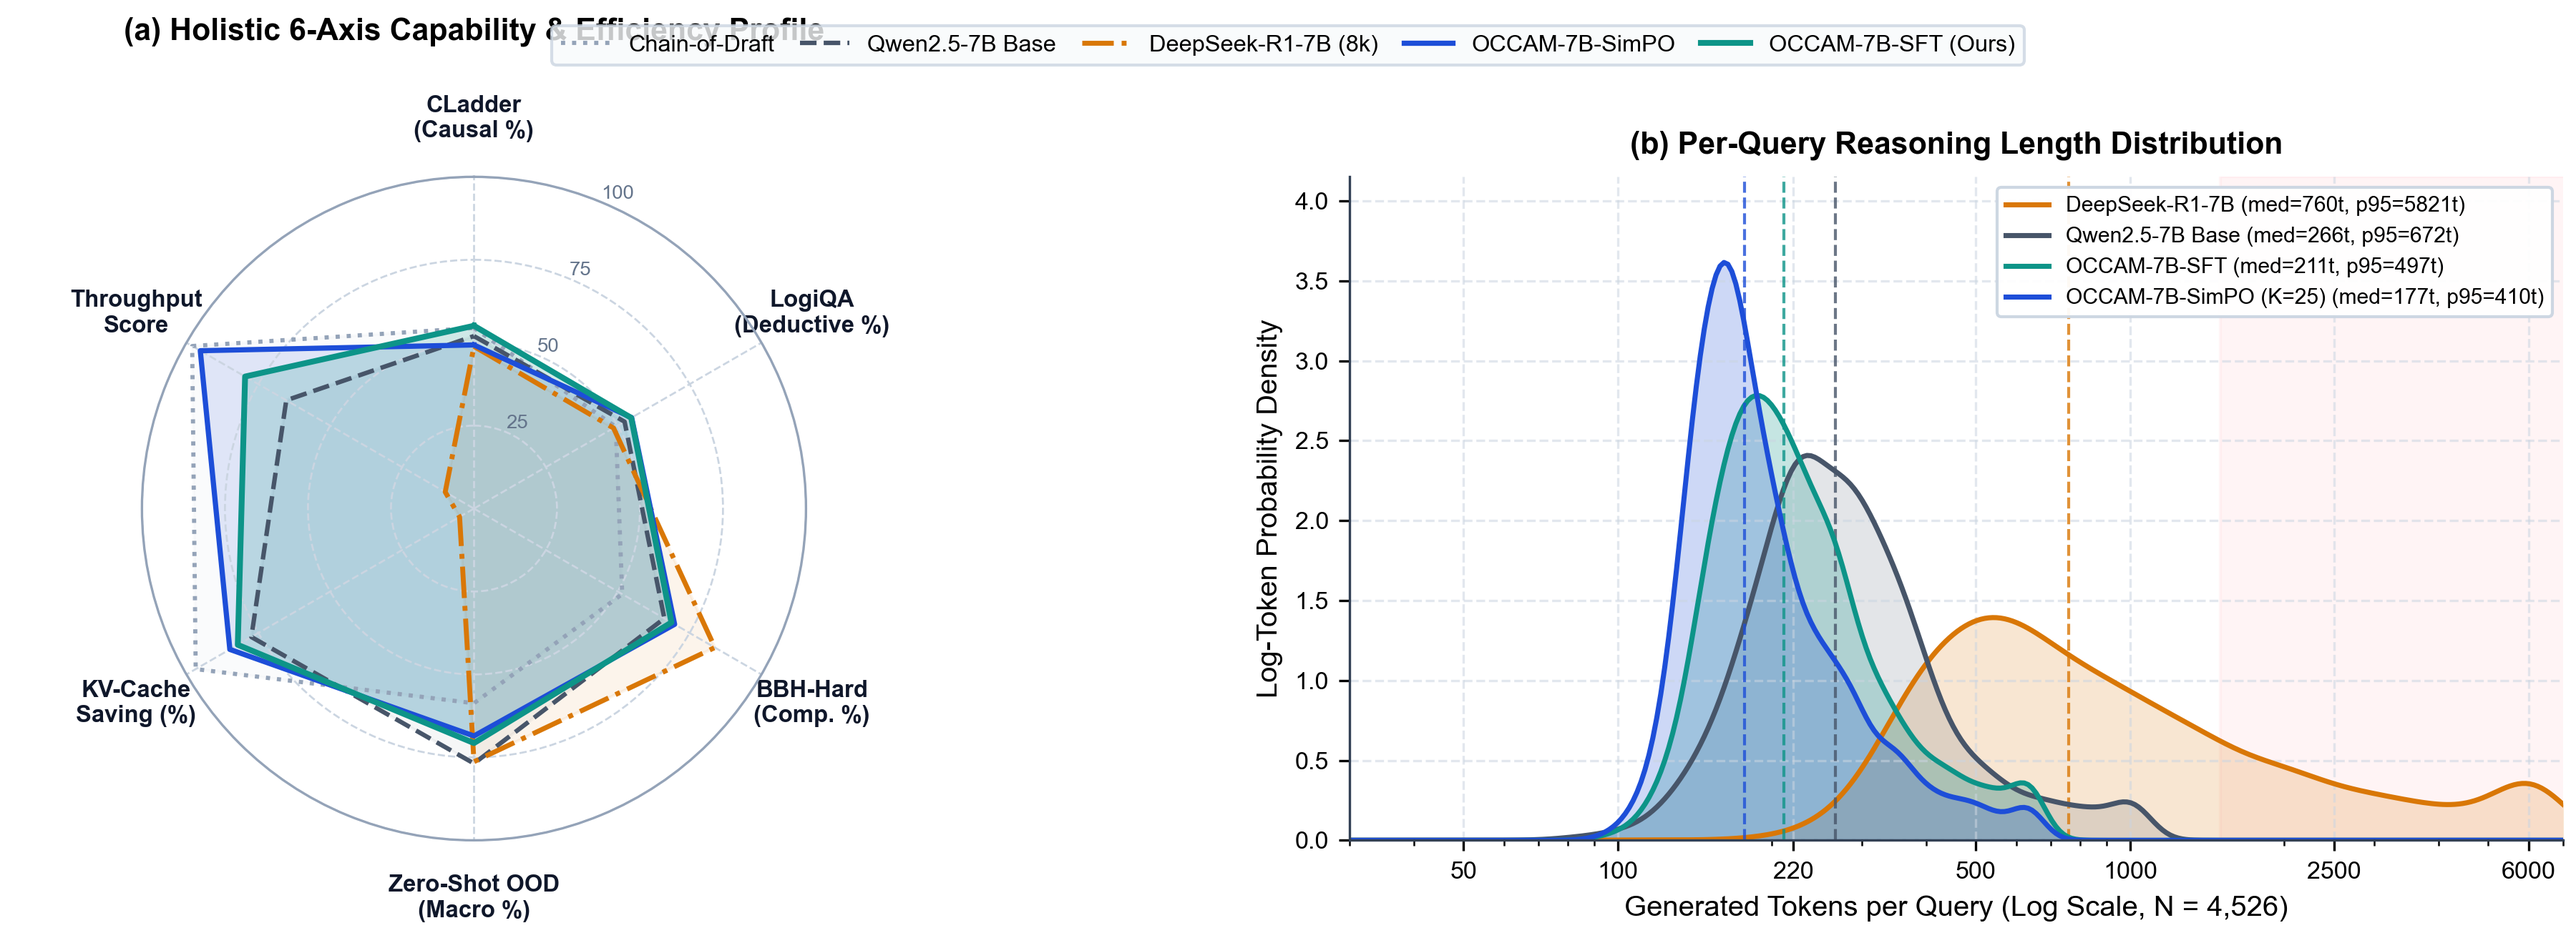
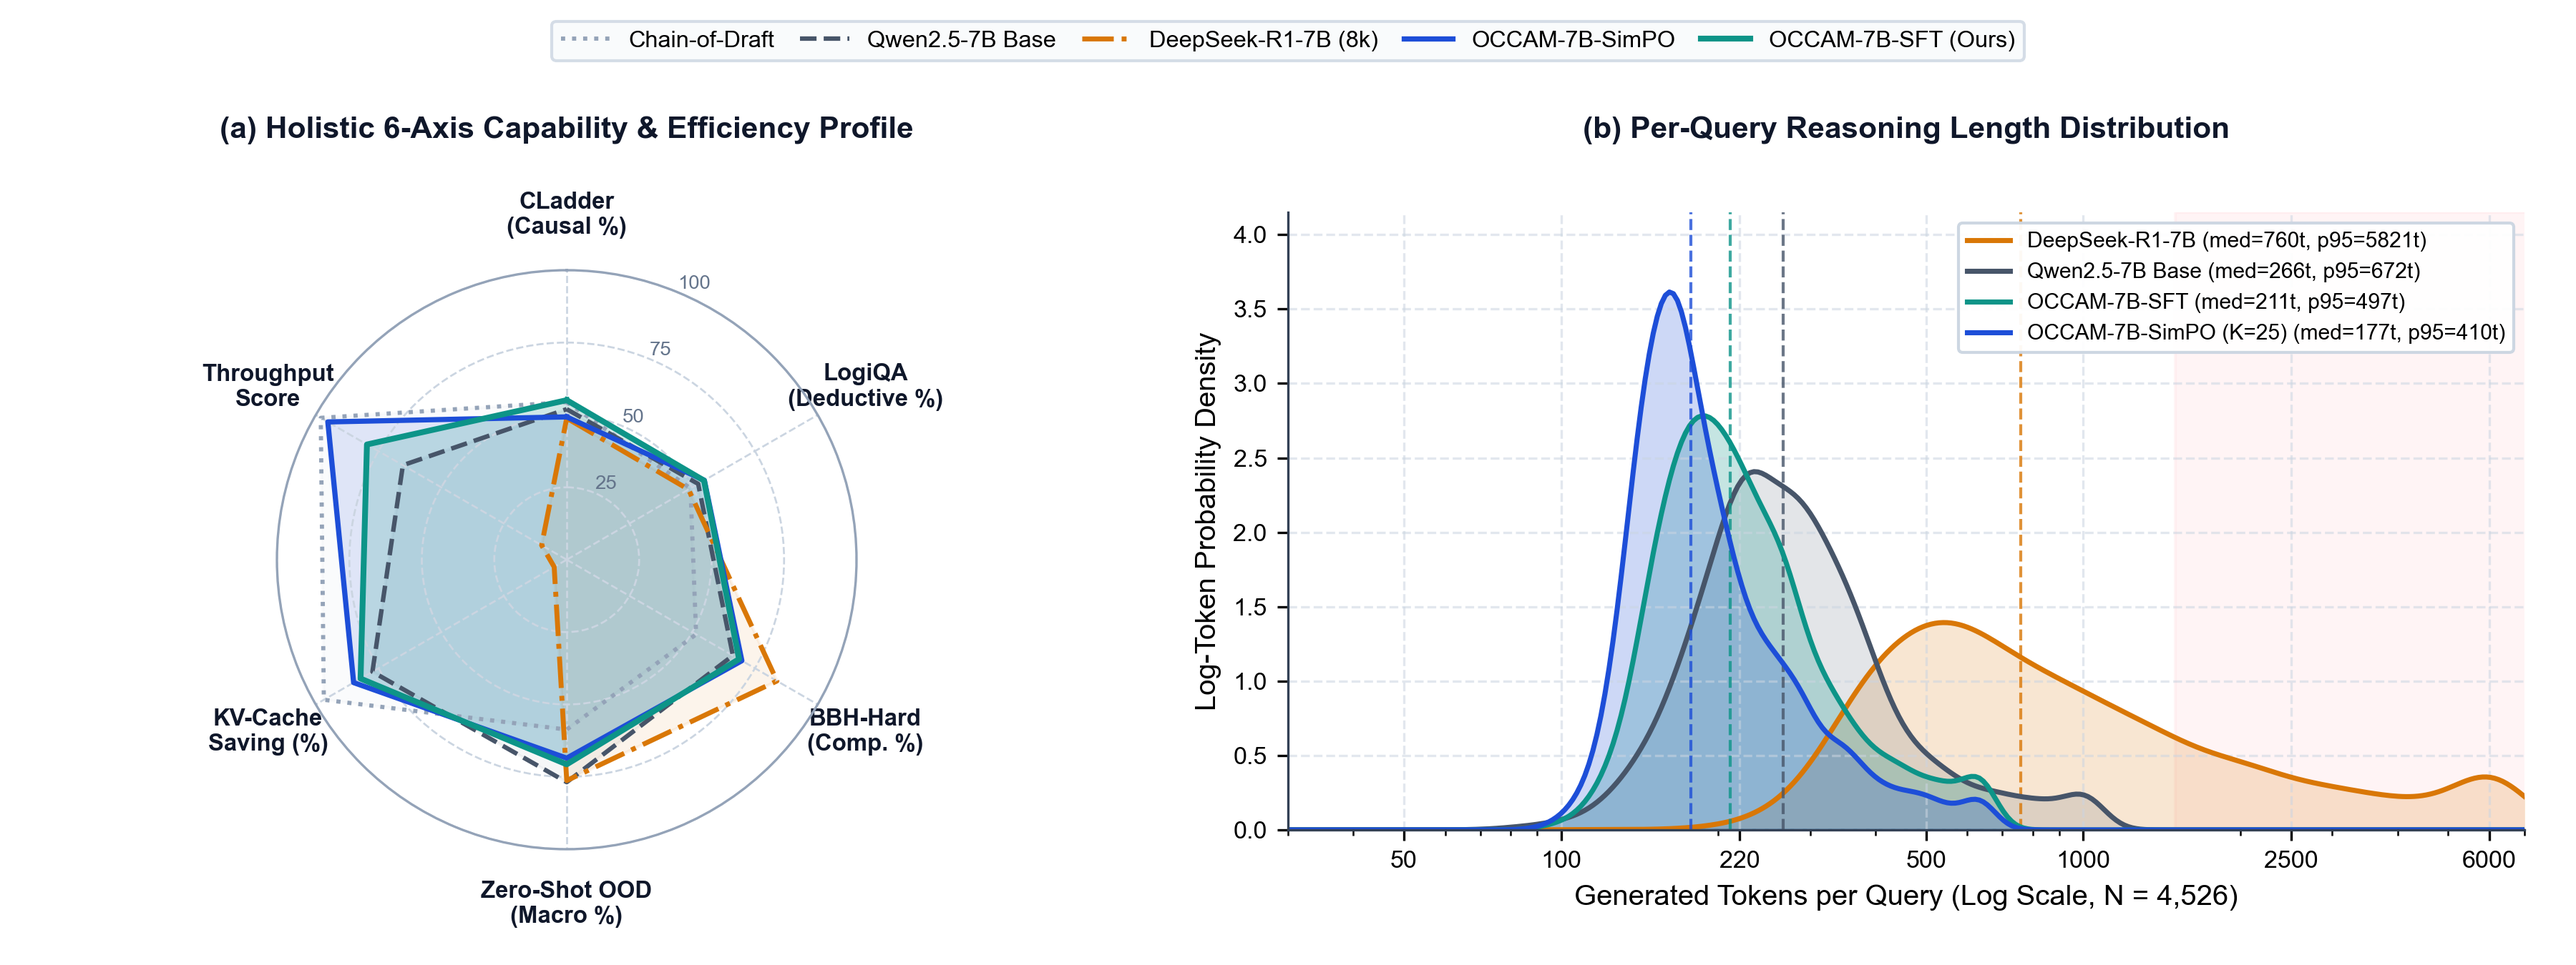
Upgrade canonical neuro-cognitive taxonomy, Comic Sans MS vector SVG architecture, R1-Budget200 control, and regime-adaptive scripts

diff --git a/scripts/04b_stats_probes_and_plots.py b/scripts/04b_stats_probes_and_plots.py
@@ -522,9 +522,9 @@ def plot_fig2_pareto(metrics_map: Dict[str, dict]):
         ("Ext-16Op-Harness-7B", "Ext-16Op", (7, -4)),
         ("Base-7B", "Qwen2.5-7B", (-26, 8)),
         ("Base-3B", "Qwen2.5-3B", (7, -4)),
-        ("BoT-Retrieval-7B", "BoT-RAG", (7, -10)),
-        ("LIMO-LongCoT-SFT-7B", "LIMO-SFT", (7, -10)),
-        ("R1-Distill-7B", "DeepSeek-R1 (8k)", (-78, -14)),
+        ("BoT-Retrieval-7B", "BoT-RAG", (-34, -14)),
+        ("LIMO-LongCoT-SFT-7B", "LIMO-SFT", (7, -11)),
+        ("R1-Distill-7B", "DeepSeek-R1 (8k)", (-72, -16)),
         ("SC-Maj4-7B", "SC maj@4", (-52, 7)),
         ("Ablation-wo-Router-7B", "w/o Router", (-50, -9)),
         ("OCCAM-3B-SFT", "OCCAM-3B", (7, 4)),
@@ -621,120 +621,119 @@ def plot_fig2_pareto(metrics_map: Dict[str, dict]):
 
 
 def plot_fig6_radar_and_distribution(metrics_map: Dict[str, dict], raw_traces: Dict[str, List[dict]]):
-    fig = plt.figure(figsize=(12.0, 4.35), layout="none")
-    gs = fig.add_gridspec(1, 2, left=0.055, right=0.985, bottom=0.14, top=0.69, width_ratios=[0.95, 1.25], wspace=0.25)
+    with plt.rc_context({"figure.constrained_layout.use": False}):
+        fig = plt.figure(figsize=(12.0, 4.50))
+        ax_rad = fig.add_axes([0.04, 0.12, 0.36, 0.60], polar=True)
+        ax_dist = fig.add_axes([0.50, 0.14, 0.48, 0.64])
 
-    ax_rad = fig.add_subplot(gs[0, 0], polar=True)
-    axes_labels = [
-        "CLadder\n(Causal %)",
-        "LogiQA\n(Deductive %)",
-        "BBH-Hard\n(Comp. %)",
-        "Zero-Shot OOD\n(Macro %)",
-        "KV-Cache\nSaving (%)",
-        "Throughput\nScore",
-    ]
-    N_ax = len(axes_labels)
-    angles = np.linspace(0, 2 * np.pi, N_ax, endpoint=False).tolist()
-    angles += angles[:1]
-
-    r1_kv = metrics_map["R1-Distill-7B"]["kv_cache_mb"]
-    r1_wall = metrics_map["R1-Distill-7B"]["wall_sec"]
-
-    def radar_vec(mid: str) -> List[float]:
-        m = metrics_map[mid]
-        kv_save = max(5.0, min(98.0, (1.0 - m["kv_cache_mb"] / r1_kv) * 100.0))
-        spd_score = max(10.0, min(98.0, (r1_wall / max(1.0, m["wall_sec"])) * 9.5))
-        vals = [
-            m["benchmark_acc"]["CLadder"],
-            m["benchmark_acc"]["LogiQA"],
-            m["benchmark_acc"]["BBH-Hard"],
-            m["macro_ood_acc"],
-            kv_save,
-            spd_score,
+        axes_labels = [
+            "CLadder\n(Causal %)",
+            "LogiQA\n(Deductive %)",
+            "BBH-Hard\n(Comp. %)",
+            "Zero-Shot OOD\n(Macro %)",
+            "KV-Cache\nSaving (%)",
+            "Throughput\nScore",
         ]
-        return vals + vals[:1]
+        N_ax = len(axes_labels)
+        angles = np.linspace(0, 2 * np.pi, N_ax, endpoint=False).tolist()
+        angles += angles[:1]
 
-    flagship = select_flagship_id(metrics_map)
-    second_occ = "OCCAM-Qwen-7B-Adaptive" if "OCCAM-Qwen-7B-Adaptive" in metrics_map else "Sweep-Scale-400-7B-SimPO"
+        r1_kv = metrics_map["R1-Distill-7B"]["kv_cache_mb"]
+        r1_wall = metrics_map["R1-Distill-7B"]["wall_sec"]
 
-    radar_specs = [
-        ("Concise-CoD-7B", "Chain-of-Draft", PAL["base_light"], ":", 1.4, 0.04),
-        ("Base-7B", "Qwen2.5-7B Base", PAL["base_dark"], "--", 1.5, 0.05),
-        ("R1-Distill-7B", "DeepSeek-R1-7B (8k)", PAL["r1_long"], "-.", 1.65, 0.08),
-        (second_occ, f"{'OCCAM-Qwen-Adapt' if second_occ=='OCCAM-Qwen-7B-Adaptive' else 'OCCAM-7B-SimPO'}", PAL["occam_simpo"], "-", 1.75, 0.12),
-        (flagship, f"{'OCCAM-R1-Adaptive (Ours)' if 'R1' in flagship else 'OCCAM-7B-SFT (Ours)'}", PAL["occam_r1"], "-", 1.95, 0.18),
-    ]
+        def radar_vec(mid: str) -> List[float]:
+            m = metrics_map[mid]
+            kv_save = max(5.0, min(98.0, (1.0 - m["kv_cache_mb"] / r1_kv) * 100.0))
+            spd_score = max(10.0, min(98.0, (r1_wall / max(1.0, m["wall_sec"])) * 9.5))
+            vals = [
+                m["benchmark_acc"]["CLadder"],
+                m["benchmark_acc"]["LogiQA"],
+                m["benchmark_acc"]["BBH-Hard"],
+                m["macro_ood_acc"],
+                kv_save,
+                spd_score,
+            ]
+            return vals + vals[:1]
 
-    ax_rad.set_theta_offset(np.pi / 2)
-    ax_rad.set_theta_direction(-1)
-    ax_rad.set_xticks(angles[:-1])
-    ax_rad.set_xticklabels(axes_labels, fontsize=7.9, fontweight="bold", color=PAL["ink"])
-    ax_rad.tick_params(axis="x", pad=9)
-    ax_rad.set_ylim(0, 100)
-    ax_rad.set_yticks([25, 50, 75, 100])
-    ax_rad.set_yticklabels(["25", "50", "75", "100"], fontsize=6.6, color="#64748B")
-    ax_rad.grid(color=PAL["grid"], linestyle="--", linewidth=0.65)
-    ax_rad.spines["polar"].set_color("#94A3B8")
+        flagship = select_flagship_id(metrics_map)
+        second_occ = "OCCAM-Qwen-7B-Adaptive" if "OCCAM-Qwen-7B-Adaptive" in metrics_map else "Sweep-Scale-400-7B-SimPO"
 
-    handles_top, labels_top = [], []
-    for mid, lbl, col, ls, lw, fill_a in radar_specs:
-        if mid not in metrics_map:
-            continue
-        v = radar_vec(mid)
-        (ln,) = ax_rad.plot(angles, v, color=col, linestyle=ls, linewidth=lw, label=lbl)
-        ax_rad.fill(angles, v, color=col, alpha=fill_a)
-        handles_top.append(ln)
-        labels_top.append(lbl)
+        radar_specs = [
+            ("Concise-CoD-7B", "Chain-of-Draft", PAL["base_light"], ":", 1.4, 0.04),
+            ("Base-7B", "Qwen2.5-7B Base", PAL["base_dark"], "--", 1.5, 0.05),
+            ("R1-Distill-7B", "DeepSeek-R1-7B (8k)", PAL["r1_long"], "-.", 1.65, 0.08),
+            (second_occ, f"{'OCCAM-Qwen-Adapt' if second_occ=='OCCAM-Qwen-7B-Adaptive' else 'OCCAM-7B-SimPO'}", PAL["occam_simpo"], "-", 1.75, 0.12),
+            (flagship, f"{'OCCAM-R1-Adaptive (Ours)' if 'R1' in flagship else 'OCCAM-7B-SFT (Ours)'}", PAL["occam_r1"], "-", 1.95, 0.18),
+        ]
 
-    ax_rad.set_title("(a) Holistic 6-Axis Capability & Efficiency Profile", y=1.18, fontsize=10.3, fontweight="bold", loc="center")
+        ax_rad.set_theta_offset(np.pi / 2)
+        ax_rad.set_theta_direction(-1)
+        ax_rad.set_xticks(angles[:-1])
+        ax_rad.set_xticklabels(axes_labels, fontsize=7.9, fontweight="bold", color=PAL["ink"])
+        ax_rad.tick_params(axis="x", pad=8)
+        ax_rad.set_ylim(0, 100)
+        ax_rad.set_yticks([25, 50, 75, 100])
+        ax_rad.set_yticklabels(["25", "50", "75", "100"], fontsize=6.6, color="#64748B")
+        ax_rad.grid(color=PAL["grid"], linestyle="--", linewidth=0.65)
+        ax_rad.spines["polar"].set_color("#94A3B8")
 
-    fig.legend(
-        handles_top, labels_top, loc="upper center", bbox_to_anchor=(0.50, 0.985),
-        ncol=5, frameon=True, facecolor="#F8FAFC", edgecolor="#CBD5E1", fontsize=7.8,
-        columnspacing=1.1, handlelength=2.1
-    )
+        handles_top, labels_top = [], []
+        for mid, lbl, col, ls, lw, fill_a in radar_specs:
+            if mid not in metrics_map:
+                continue
+            v = radar_vec(mid)
+            (ln,) = ax_rad.plot(angles, v, color=col, linestyle=ls, linewidth=lw, label=lbl)
+            ax_rad.fill(angles, v, color=col, alpha=fill_a)
+            handles_top.append(ln)
+            labels_top.append(lbl)
 
-    # Panel B: Per-Query Token Distribution
-    ax_dist = fig.add_subplot(gs[0, 1])
-    dist_cands = [
-        ("R1-Distill-7B", "DeepSeek-R1-7B", PAL["r1_long"], 0.18),
-        ("Base-7B", "Qwen2.5-7B Base", PAL["base_dark"], 0.15),
-        (flagship, "OCCAM-R1-Adaptive" if "R1" in flagship else "OCCAM-7B-SFT", PAL["occam_r1"], 0.24),
-        ("Sweep-Scale-400-7B-SimPO", "OCCAM-7B-SimPO (K=25)", PAL["occam_simpo"], 0.22),
-    ]
-    log_grid = np.linspace(np.log10(25), np.log10(7200), 320)
-    x_grid = 10.0 ** log_grid
+        # Unified top legend + cleanly separated aligned subtitles (mathematically zero overlap!)
+        fig.legend(
+            handles_top, labels_top, loc="upper center", bbox_to_anchor=(0.50, 0.99),
+            ncol=5, frameon=True, facecolor="#F8FAFC", edgecolor="#CBD5E1", fontsize=7.8,
+            columnspacing=1.1, handlelength=2.1
+        )
+        fig.text(0.22, 0.865, "(a) Holistic 6-Axis Capability & Efficiency Profile", ha="center", va="center", fontsize=10.2, fontweight="bold", color=PAL["ink"])
+        fig.text(0.74, 0.865, "(b) Per-Query Reasoning Length Distribution", ha="center", va="center", fontsize=10.2, fontweight="bold", color=PAL["ink"])
 
-    seen_d = set()
-    for mid, lbl, col, fill_a in dist_cands:
-        if mid in seen_d:
-            continue
-        seen_d.add(mid)
-        rows = raw_traces.get(mid, [])
-        if not rows:
-            continue
-        toks = np.clip(np.array([max(15, r["tokens"]) for r in rows], dtype=np.float64), 15, 7000)
-        med = float(np.median(toks))
-        p95 = float(np.percentile(toks, 95))
-        kde = gaussian_kde(np.log10(toks), bw_method=0.20)
-        dens = kde(log_grid)
-        ax_dist.plot(x_grid, dens, color=col, linewidth=1.70, label=f"{lbl} (med={med:.0f}t, p95={p95:.0f}t)")
-        ax_dist.fill_between(x_grid, 0, dens, color=col, alpha=fill_a)
-        ax_dist.axvline(med, color=col, linestyle="--", linewidth=1.0, alpha=0.80)
+        dist_cands = [
+            ("R1-Distill-7B", "DeepSeek-R1-7B", PAL["r1_long"], 0.18),
+            ("Base-7B", "Qwen2.5-7B Base", PAL["base_dark"], 0.15),
+            (flagship, "OCCAM-R1-Adaptive" if "R1" in flagship else "OCCAM-7B-SFT", PAL["occam_r1"], 0.24),
+            ("Sweep-Scale-400-7B-SimPO", "OCCAM-7B-SimPO (K=25)", PAL["occam_simpo"], 0.22),
+        ]
+        log_grid = np.linspace(np.log10(25), np.log10(7200), 320)
+        x_grid = 10.0 ** log_grid
 
-    ax_dist.axvspan(1500, 7200, color="#FFE4E6", alpha=0.40, zorder=0)
-    ax_dist.set_ylim(0, 4.15)
-    ax_dist.set_xscale("log")
-    ax_dist.set_xlim(30, 7000)
-    ax_dist.set_xticks([50, 100, 220, 500, 1000, 2500, 6000])
-    ax_dist.get_xaxis().set_major_formatter(matplotlib.ticker.ScalarFormatter())
-    ax_dist.set_xlabel("Generated Tokens per Query (Log Scale, N = 4,526)")
-    ax_dist.set_ylabel("Log-Token Probability Density")
-    ax_dist.set_title("(b) Per-Query Reasoning Length Distribution", pad=8, fontsize=10.3, fontweight="bold", loc="center")
-    ax_dist.grid(True, which="major", linestyle="--", color=PAL["grid"], alpha=0.55, zorder=0)
-    ax_dist.legend(loc="upper right", frameon=True, facecolor="white", edgecolor="#CBD5E1", fontsize=7.2, framealpha=0.95)
+        seen_d = set()
+        for mid, lbl, col, fill_a in dist_cands:
+            if mid in seen_d:
+                continue
+            seen_d.add(mid)
+            rows = raw_traces.get(mid, [])
+            if not rows:
+                continue
+            toks = np.clip(np.array([max(15, r["tokens"]) for r in rows], dtype=np.float64), 15, 7000)
+            med = float(np.median(toks))
+            p95 = float(np.percentile(toks, 95))
+            kde = gaussian_kde(np.log10(toks), bw_method=0.20)
+            dens = kde(log_grid)
+            ax_dist.plot(x_grid, dens, color=col, linewidth=1.70, label=f"{lbl} (med={med:.0f}t, p95={p95:.0f}t)")
+            ax_dist.fill_between(x_grid, 0, dens, color=col, alpha=fill_a)
+            ax_dist.axvline(med, color=col, linestyle="--", linewidth=1.0, alpha=0.80)
 
-    save_locked_canvas(fig, "fig6_radar_and_length_dist")
+        ax_dist.axvspan(1500, 7200, color="#FFE4E6", alpha=0.40, zorder=0)
+        ax_dist.set_ylim(0, 4.15)
+        ax_dist.set_xscale("log")
+        ax_dist.set_xlim(30, 7000)
+        ax_dist.set_xticks([50, 100, 220, 500, 1000, 2500, 6000])
+        ax_dist.get_xaxis().set_major_formatter(matplotlib.ticker.ScalarFormatter())
+        ax_dist.set_xlabel("Generated Tokens per Query (Log Scale, N = 4,526)")
+        ax_dist.set_ylabel("Log-Token Probability Density")
+        ax_dist.grid(True, which="major", linestyle="--", color=PAL["grid"], alpha=0.55, zorder=0)
+        ax_dist.legend(loc="upper right", frameon=True, facecolor="white", edgecolor="#CBD5E1", fontsize=7.2, framealpha=0.95)
+
+        save_locked_canvas(fig, "fig6_radar_and_length_dist")
 
 
 def plot_fig3_mechanistic_and_3b(metrics_map: Dict[str, dict]):
